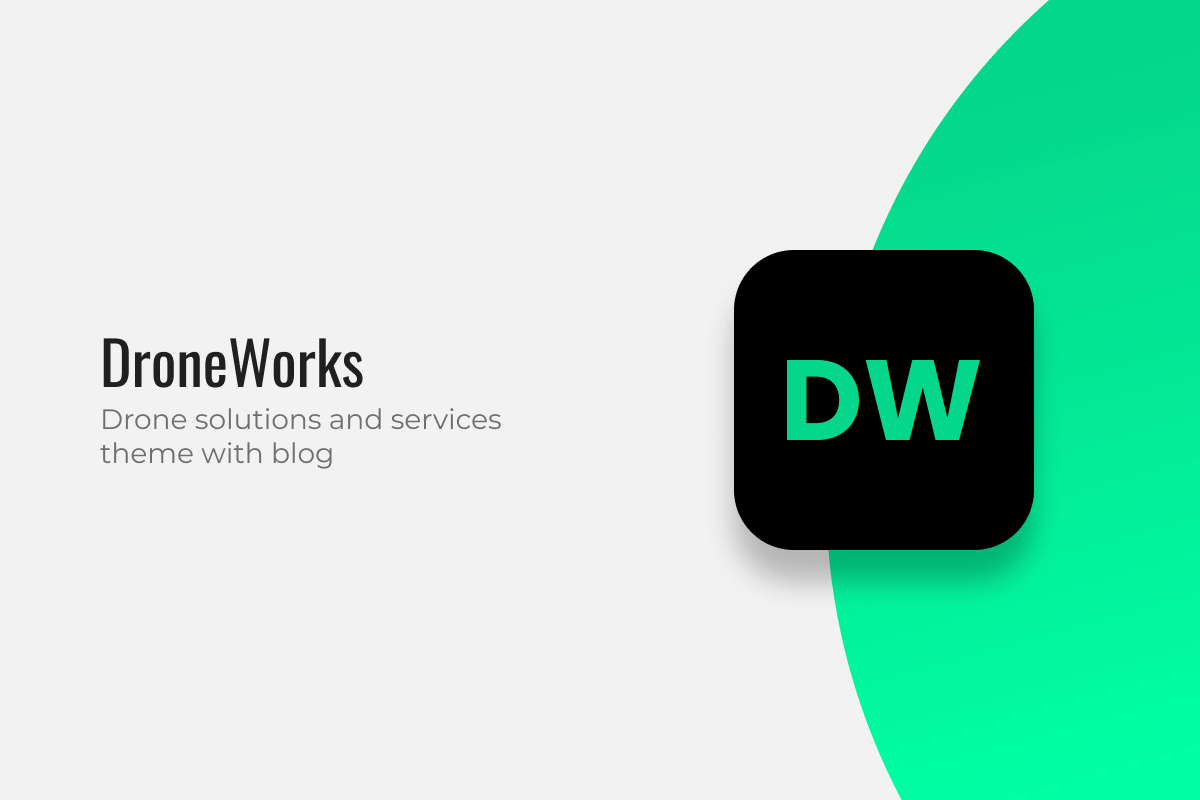
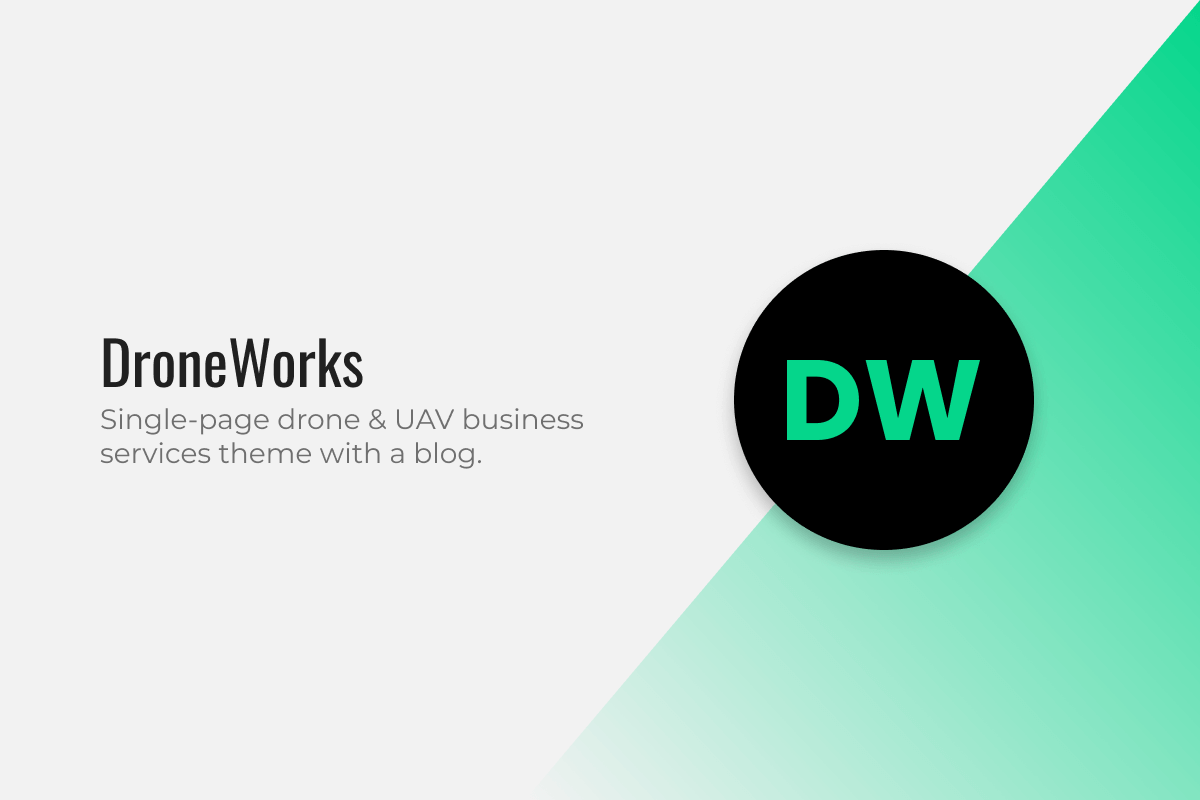
Update theme preview, theme.yaml, composer.json. Add README.md file.

Changed region(s): [[0.4933, 0.0, 1.0, 1.0], [0.0925, 0.5, 0.4933, 0.5938], [0.5858, 0.3125, 0.7092, 0.4688]]

diff --git a/README.md b/README.md
@@ -1,0 +1,51 @@
+# DroneWorks
+DroneWorks is a single-page theme with a blog. It focuses on drone businesses.
+
+## Homepage sections
+* Hero
+* About
+* Services
+* Projects
+* News
+* Testimonials
+* Contact
+
+## Features
+* Customizable
+* Fully responsive pages
+* 100% W3C valid HTML5 files
+* SASS source files
+* UI/UX improvements over the original template by Colorlib
+* SEO friendly
+* Open Graph support
+* Contact and Subscription forms
+* Opt-in cookie consent with Google Analytics
+
+## Pages
+* Home
+* Blog
+* Blog category
+* Post
+* Privacy policy
+* Maintenance
+* Page not found (404)
+* Error page (500)
+
+## Required plugins
+* [Rainlab.Blog](https://octobercms.com/plugin/rainlab-blog) - A robust blogging platform.
+* [Martin.Forms](https://octobercms.com/plugin/martin-forms) - Create easy AJAX forms.
+
+## License and attributions
+"[DronePhotography](https://colorlib.com/wp/template/dronephotography/)" by [Colorlib](https://colorlib.com/), used under [CC BY 3.0](https://creativecommons.org/licenses/by/3.0/) / Desaturated from original.
+
+This work, "DroneWorks", is a derivative of "[DronePhotography](https://colorlib.com/wp/template/dronephotography/)" by [Colorlib](https://colorlib.com/), used under [CC BY 3.0](https://creativecommons.org/licenses/by/3.0/). "DroneWorks" is licensed under [CC BY 3.0](https://creativecommons.org/licenses/by/3.0/) by [Marios Sofokleous](https://www.msof.me).
+
+## Contribution
+The GitHub repository for this theme can be found [here](https://github.com/PictureElement/droneworks-theme). Please feel free to contribute or report any bugs.
+
+## You may like my other plugins/themes
+- [msof.rapido](https://octobercms.com/theme/msof-rapido) - Polished single-page business-oriented theme with a blog.
+- [msof.portfolio](https://octobercms.com/plugin/msof-portfolio) - Ajax-powered Masonry portfolio with category filters and a modal dialog.
+
+## About me
+My name is [Marios Sofokleous](https://www.msof.me/), and I am a web developer with industry experience building custom websites.
